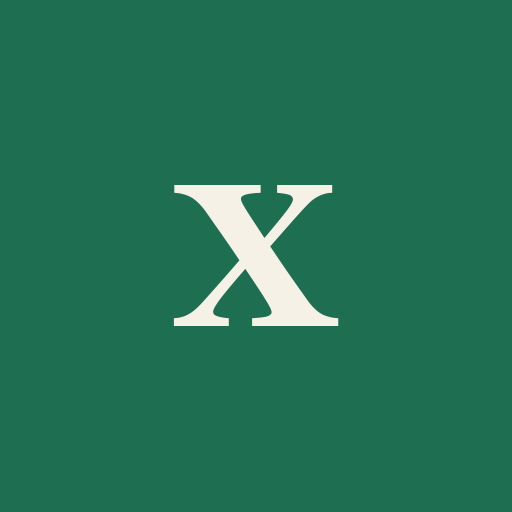
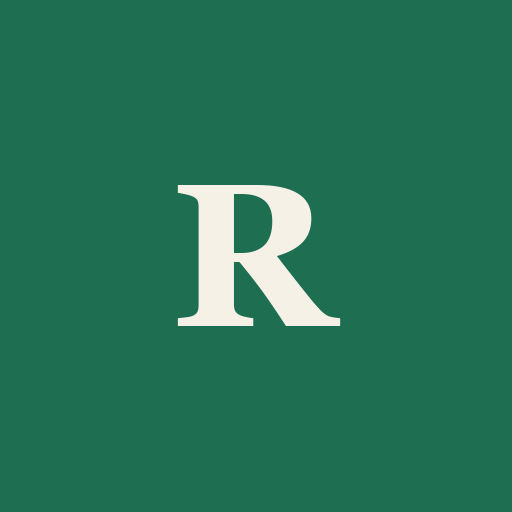
Rename app to Rowda Fee Information

Changed region(s): [[0.3438, 0.3438, 0.6562, 0.6562], [0.5938, 0.5625, 0.6562, 0.625], [0.5625, 0.5312, 0.5938, 0.5625]]

diff --git a/index.html b/index.html
@@ -3,7 +3,7 @@
 <head>
 <meta charset="UTF-8">
 <meta name="viewport" content="width=device-width, initial-scale=1.0">
-<title>Xisaabta Kooxda</title>
+<title>Rowda Fee Information</title>
 <meta name="description" content="Xisaab wadaag ah oo kooxdu ku wadaagto fariimo iyo lacago.">
 <link rel="manifest" href="manifest.json">
 <meta name="theme-color" content="#1E6E52">
@@ -12,7 +12,7 @@
 <meta name="mobile-web-app-capable" content="yes">
 <meta name="apple-mobile-web-app-capable" content="yes">
 <meta name="apple-mobile-web-app-status-bar-style" content="black-translucent">
-<meta name="apple-mobile-web-app-title" content="Xisaabta">
+<meta name="apple-mobile-web-app-title" content="Rowda Fee">
 <link rel="preconnect" href="https://fonts.googleapis.com">
 <link rel="preconnect" href="https://fonts.gstatic.com" crossorigin>
 <link href="https://fonts.googleapis.com/css2?family=Fraunces:ital,opsz,wght@0,9..144,500;0,9..144,600;0,9..144,700;1,9..144,500&family=Work+Sans:wght@400;500;600&family=IBM+Plex+Mono:wght@400;500;600&display=swap" rel="stylesheet">
@@ -577,7 +577,7 @@
     <div class="header-top">
       <div>
         <div class="eyebrow">Kooxda &middot; Xisaab wadaag ah</div>
-        <h1 id="group-title">Xisaabta Kooxda</h1>
+        <h1 id="group-title">Rowda Fee Information</h1>
       </div>
       <div style="display:flex; gap:8px; flex-wrap:wrap; justify-content:flex-end;">
         <button class="install-btn" id="install-btn" type="button" hidden>Rakib App-ka</button>
